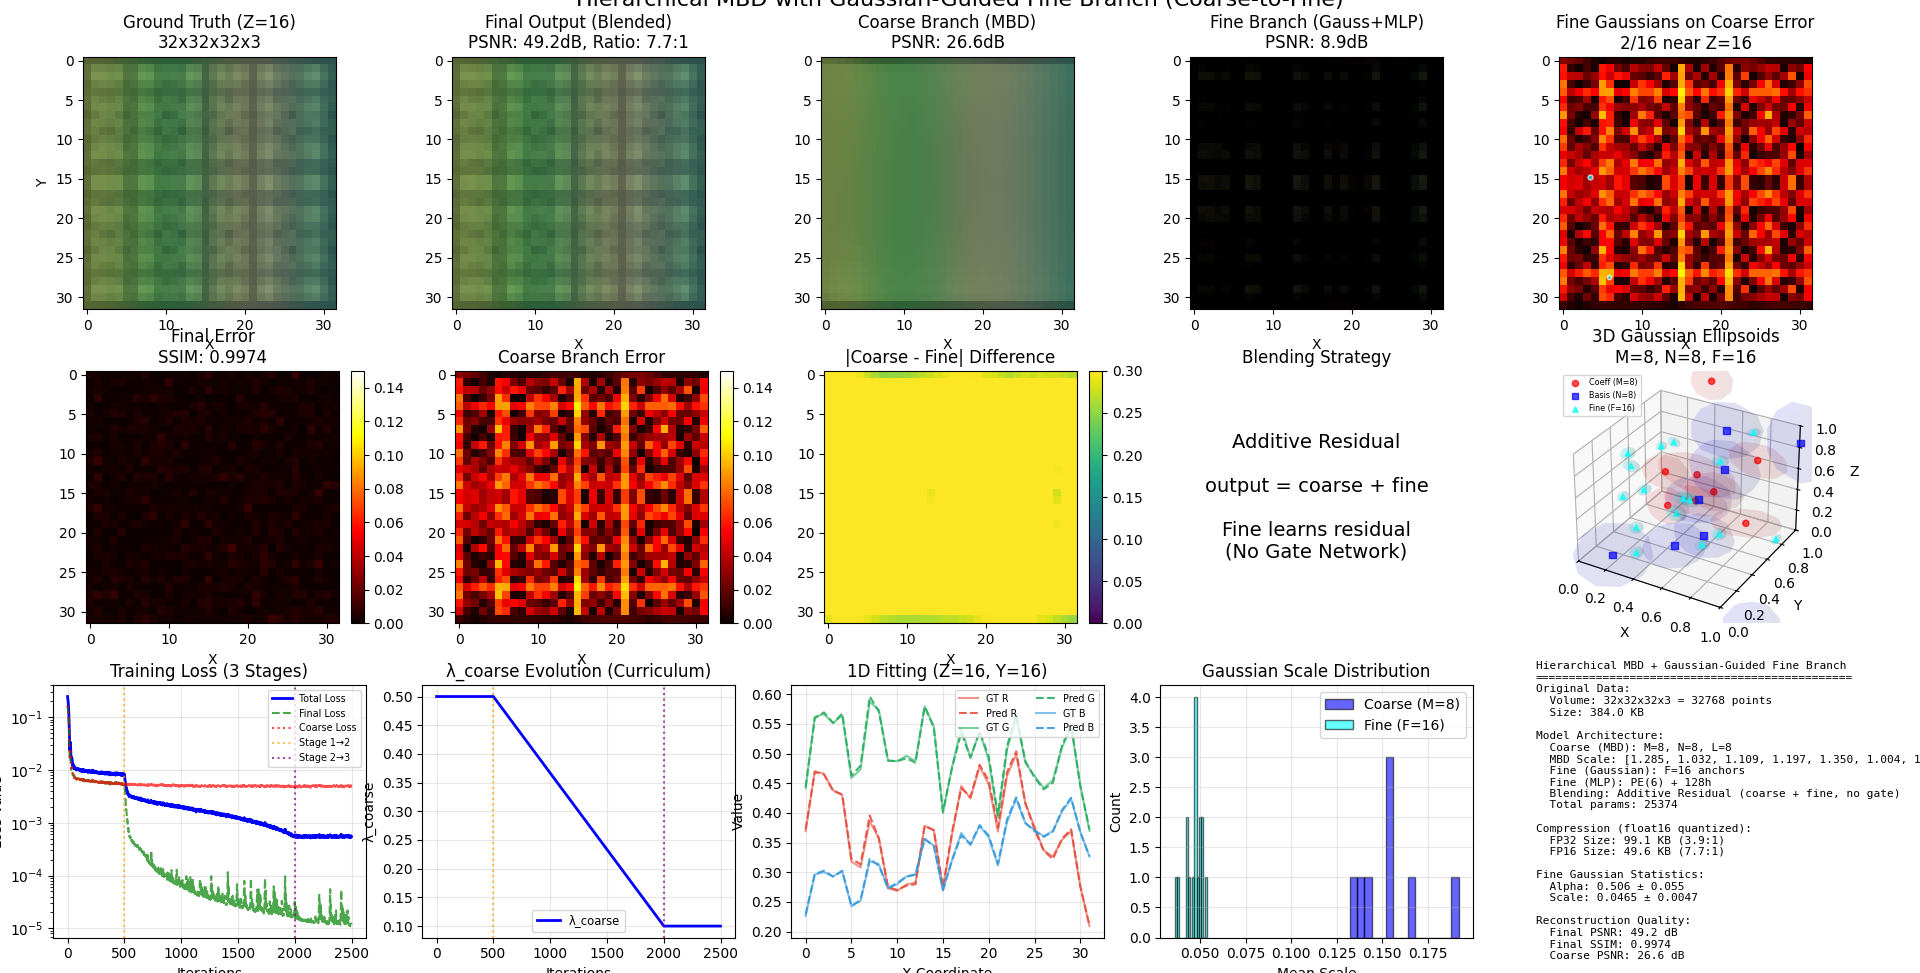
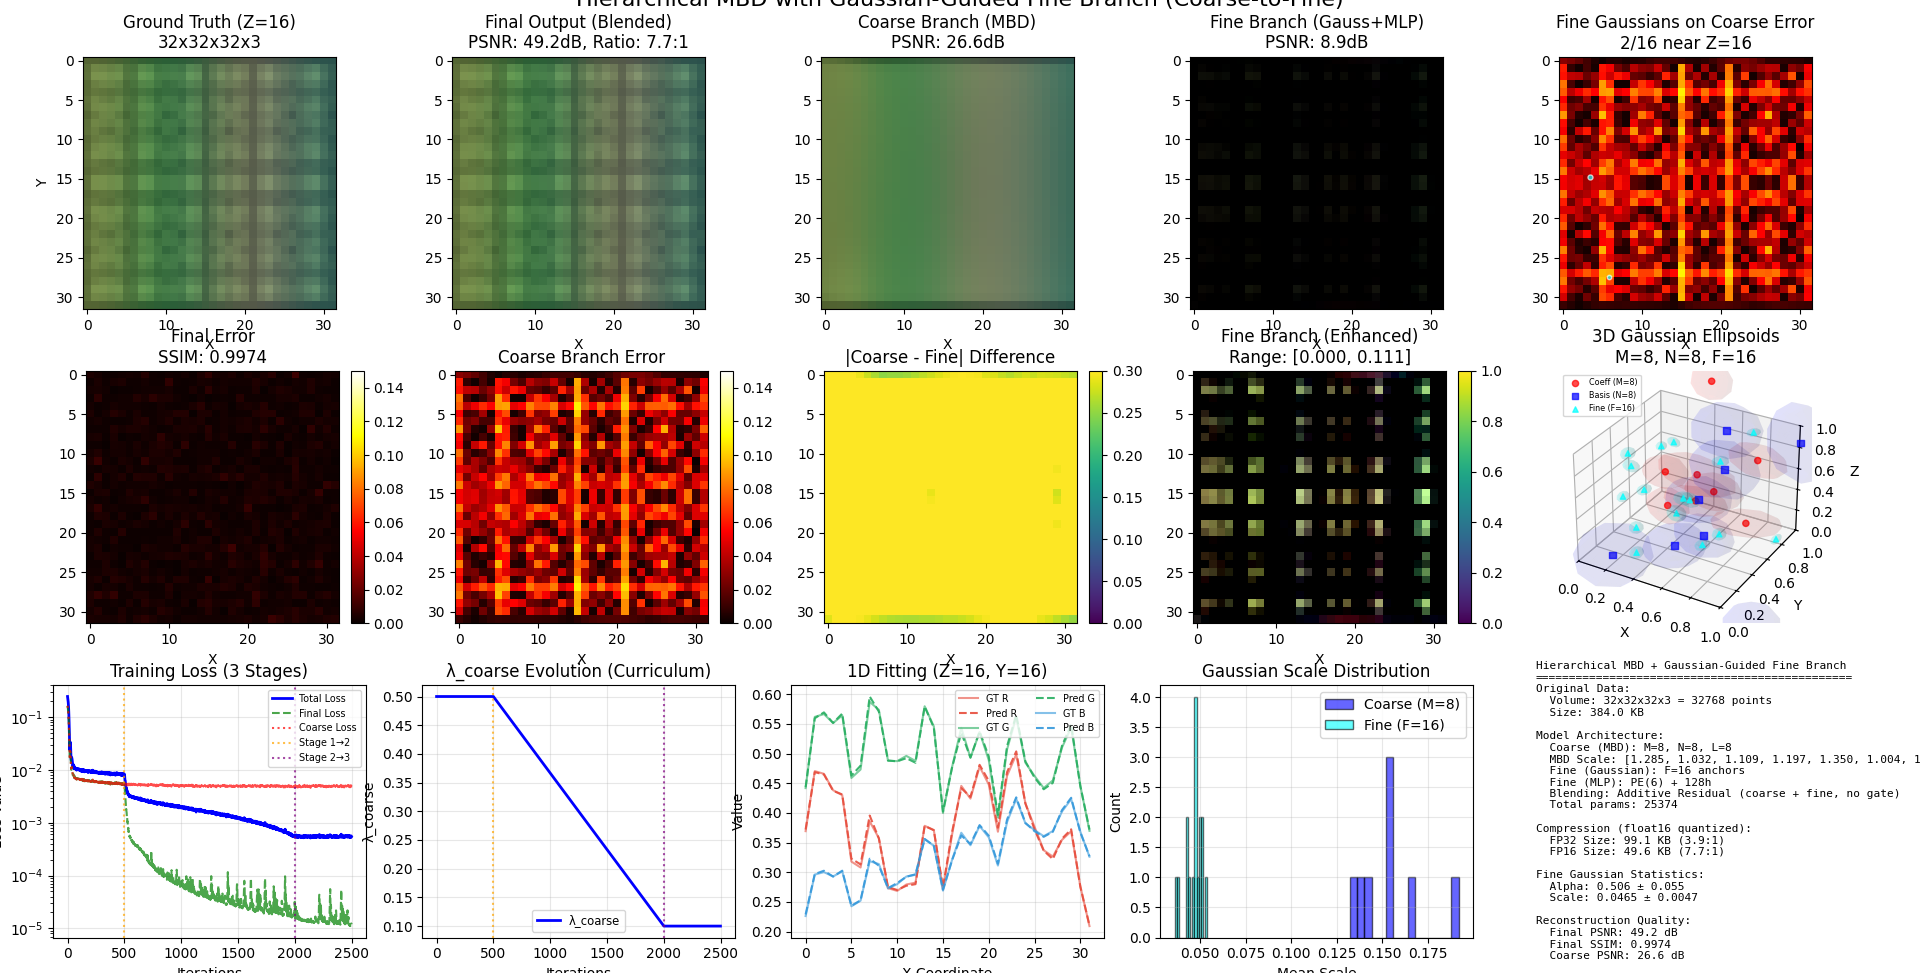
visualize the fine branch

Changed region(s): [[0.5938, 0.3392, 0.7812, 0.6475]]

diff --git a/src/HI_TEST_NOGATE.py b/src/HI_TEST_NOGATE.py
@@ -70,7 +70,7 @@ def create_test_signal_3d(grid_size=32, num_channels=3):
 
 # Generate 3D test signal
 grid_size = 32  # 3D网格使用较小的尺寸 (32^3 = 32768个点)
-ground_truth = get_test_signal_by_name("forest_dappled", grid_size=32, num_channels=3)
+ground_truth = get_test_signal_by_name("neon", grid_size=32, num_channels=3)
 D, H, W, C = ground_truth.shape
 print(f"Generated 3D test signal size: {D}x{H}x{W}x{C}")
 
